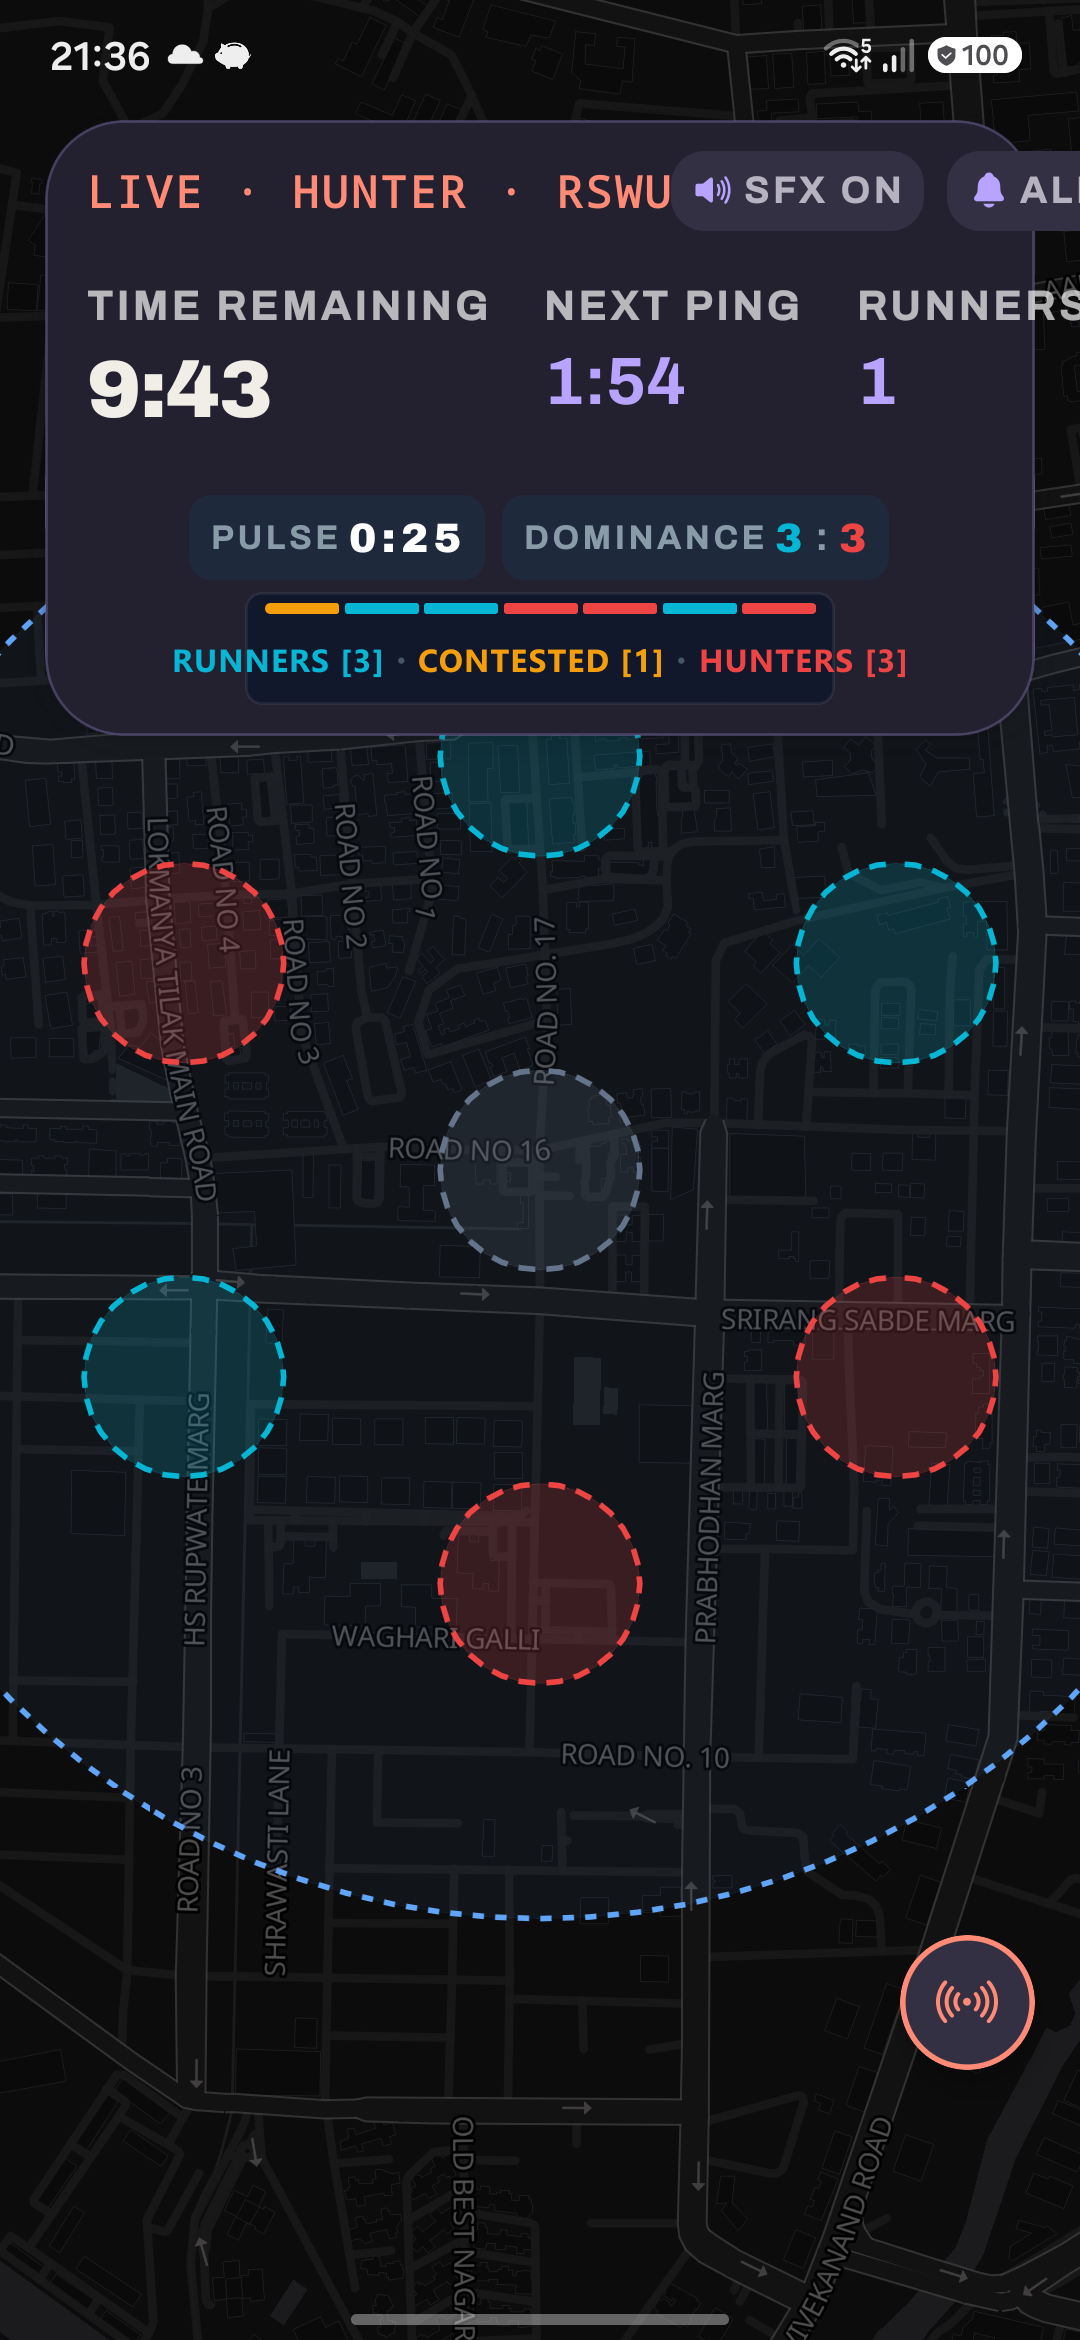
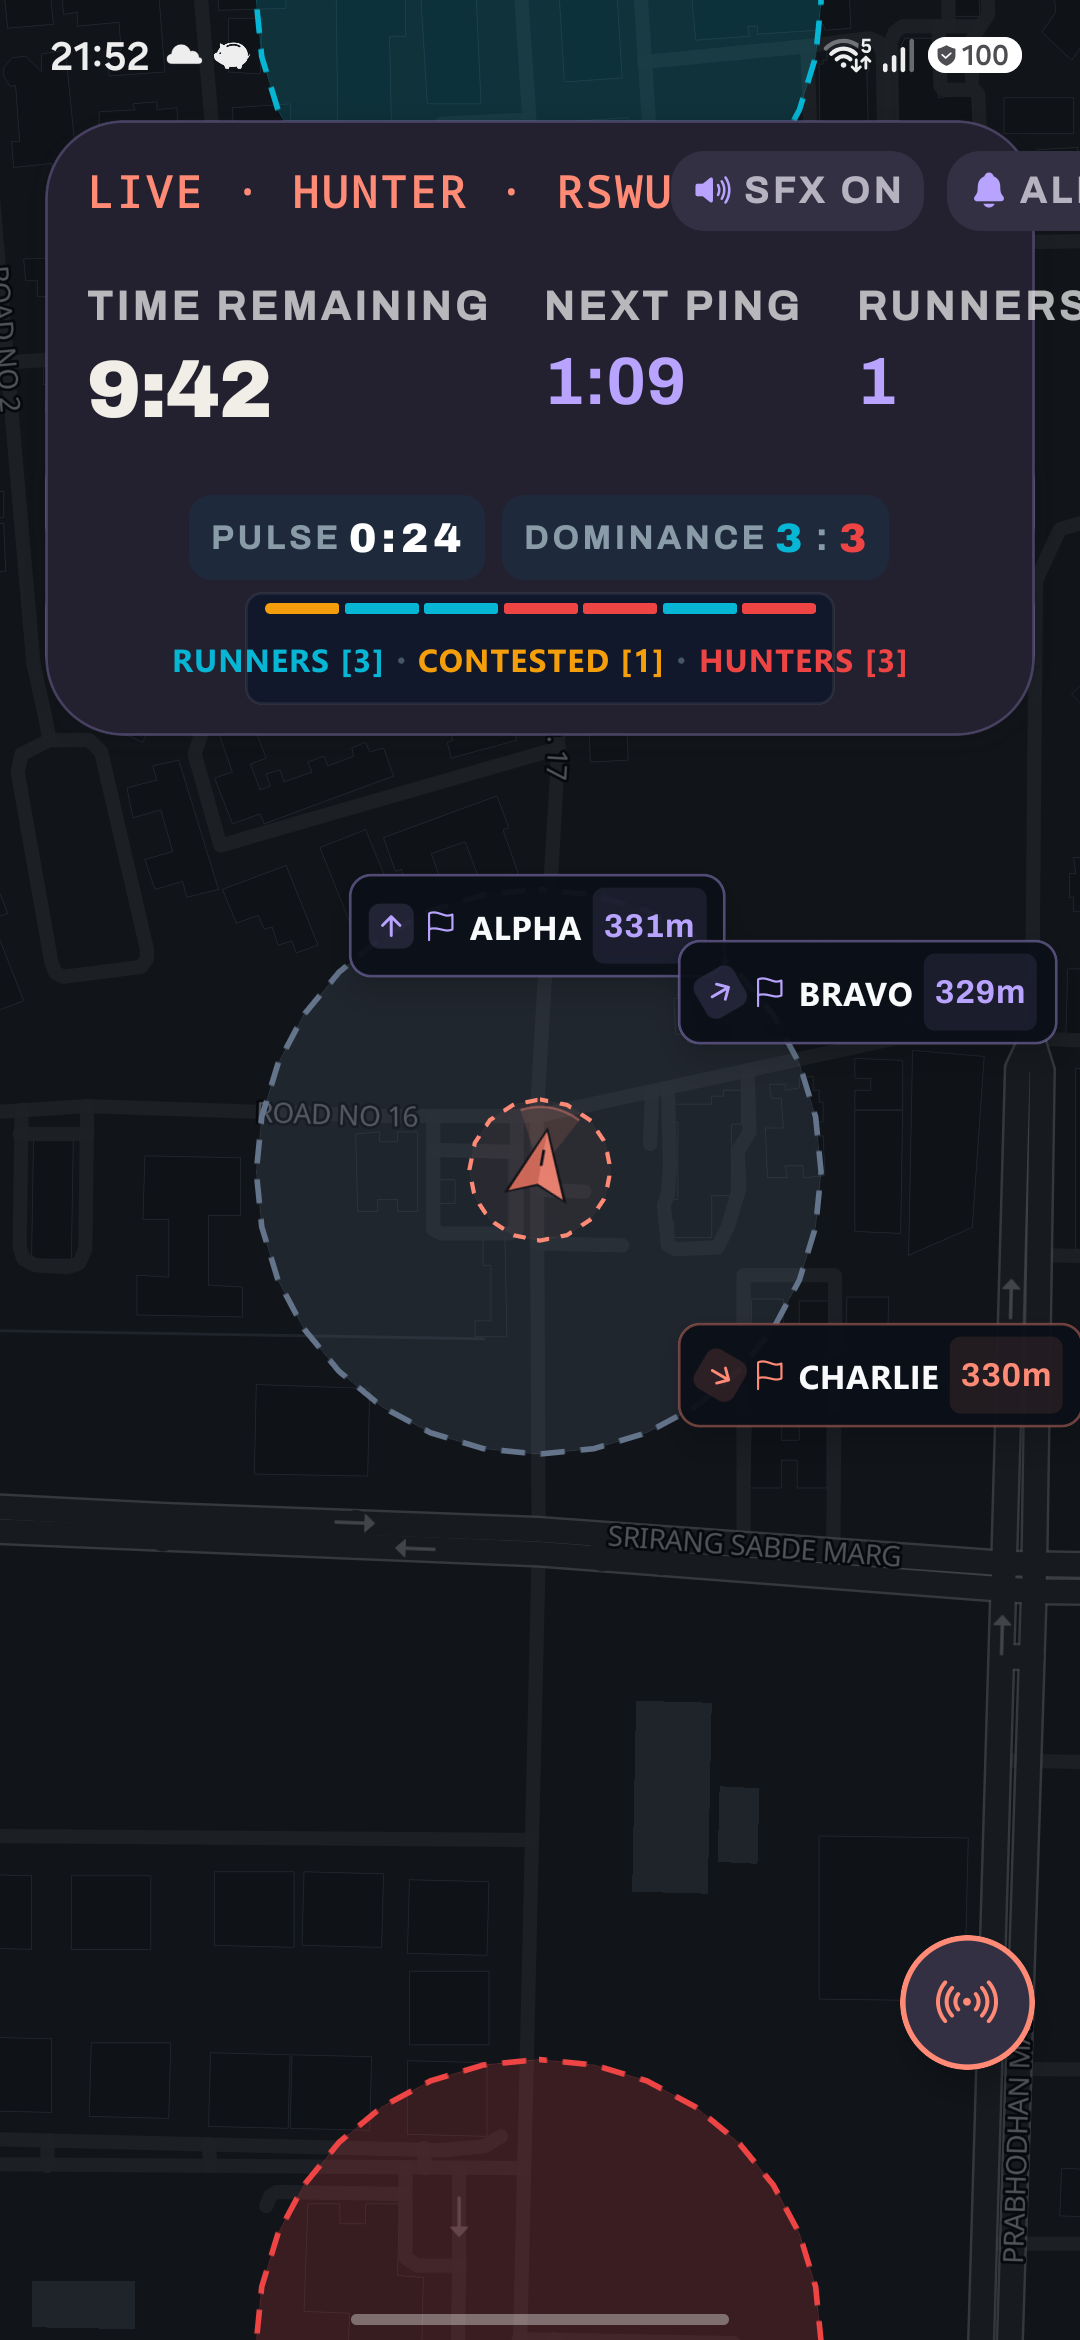
fix(map): stabilize camera with North-Up lock, GPS stationary deadband, and heading rate-limiter

diff --git a/src/game-shell/GameShell.tsx b/src/game-shell/GameShell.tsx
@@ -103,20 +103,35 @@ export function GameShell({ gameId }: GameShellProps) {
   const [now, setNow] = useState(() => Date.now());
   const [serverOffset, setServerOffset] = useState(0);
 
-  // Tactical Compass & Heading Tracking
+  // Tactical Compass & Heading Tracking with Jitter Deadband
   const [userHeading, setUserHeading] = useState<number | null>(null);
 
   useEffect(() => {
     let sub: Location.LocationSubscription | null = null;
     let mounted = true;
+    let lastHeading = 0;
+    let lastUpdateTime = 0;
+
     (async () => {
       try {
         const { status } = await Location.getForegroundPermissionsAsync();
         if (status !== 'granted') return;
         sub = await Location.watchHeadingAsync((headingData) => {
           if (!mounted) return;
-          const heading = headingData.trueHeading >= 0 ? headingData.trueHeading : headingData.magHeading;
-          setUserHeading(heading);
+          const raw = headingData.trueHeading >= 0 ? headingData.trueHeading : headingData.magHeading;
+          if (raw < 0 || isNaN(raw)) return;
+
+          const nowMs = Date.now();
+          // Rate-limit React updates to ~10 updates/sec (100ms) to prevent high-frequency re-render churn
+          if (nowMs - lastUpdateTime < 100) return;
+
+          // Angular deadband: ignore angular shifts < 3.5 degrees to eliminate sensor tremor and desk noise
+          const diff = Math.abs(((raw - lastHeading + 540) % 360) - 180);
+          if (diff < 3.5) return;
+
+          lastHeading = raw;
+          lastUpdateTime = nowMs;
+          setUserHeading(raw);
         });
       } catch {
         // Heading may not be supported on emulators without compass
@@ -349,16 +364,33 @@ export function GameShell({ gameId }: GameShellProps) {
     };
   }, []);
 
-  // Local location watcher: when phone is locked/backgrounded with background sharing enabled,
-  // skip local React state marker updates to conserve CPU & battery.
+  // Local location watcher with stationary GPS drift suppression:
+  // When phone is resting on a desk or operative is standing still, suppress GPS micro-wander (< 3.0m)
+  const lastAcceptedFixRef = useRef<GeoFix | null>(null);
+
   useEffect(() => {
     if (sharing !== 'on') return;
     return watchLocation((nextFix) => {
       if (AppState.currentState !== 'active' && backgroundSharing) return;
+
+      const currentSpeed = nextFix.speed ?? 0;
+
+      // Stationary GPS Wander Deadband:
+      // If speed is very low and displacement is within satellite noise (< 3.0m), keep existing fix
+      if (lastAcceptedFixRef.current) {
+        const d = distanceM(
+          { latitude: lastAcceptedFixRef.current.latitude, longitude: lastAcceptedFixRef.current.longitude },
+          { latitude: nextFix.latitude, longitude: nextFix.longitude }
+        );
+        if (currentSpeed < 0.7 && d < 3.0) {
+          return; // Suppress stationary micro-jitter
+        }
+      }
+
+      lastAcceptedFixRef.current = nextFix;
       setFix(nextFix);
 
       const now = Date.now();
-      const currentSpeed = nextFix.speed ?? 0;
       if (currentSpeed >= 0.5) {
         setLastMovedAt(now);
       }
@@ -756,7 +788,7 @@ export function GameShell({ gameId }: GameShellProps) {
       return Boolean(lockedParam);
     }
     const difficulty = (state.game as any).difficulty || 'standard';
-    return difficulty === 'standard' || difficulty === 'hardcore' || difficulty === 'blackout' || difficulty === 'extreme';
+    return difficulty === 'hardcore' || difficulty === 'blackout' || difficulty === 'extreme';
   }, [state]);
 
   const isBlackoutMode = useMemo(() => {

diff --git a/src/game-shell/MapView.tsx b/src/game-shell/MapView.tsx
@@ -48,17 +48,30 @@ export const MapView = memo(function MapView({
 }: MapViewProps) {
   const { colors, isDark } = useTheme();
   const cameraRef = useRef<CameraRef>(null);
+  const lastCameraCenterRef = useRef<[number, number] | null>(null);
 
-  // When map is locked in Tactical Compass mode, center camera on player and rotate with device heading
+  // Smooth camera following with stationary deadband & rock-solid North-Up orientation.
+  // Suppresses stationary GPS micro-wander (< 4m) and eliminates compass-induced map spinning.
   useEffect(() => {
-    if (!isMapLocked || !ownFix || !cameraRef.current) return;
+    if (!ownFix || !cameraRef.current) return;
+
+    if (lastCameraCenterRef.current) {
+      const prevLngLat = { longitude: lastCameraCenterRef.current[0], latitude: lastCameraCenterRef.current[1] };
+      const dist = distanceM(prevLngLat, ownFix);
+      // Suppress stationary GPS jitter when stationary
+      if (dist < 4.0) {
+        return;
+      }
+    }
+
+    lastCameraCenterRef.current = [ownFix.longitude, ownFix.latitude];
     cameraRef.current.easeTo({
       center: [ownFix.longitude, ownFix.latitude],
-      bearing: userHeading !== null && userHeading !== undefined ? userHeading : 0,
+      bearing: 0, // Always North-Up: map NEVER spins or goes crazy when phone is tilted
       zoom: 16.5,
-      duration: 300,
+      duration: 800, // Smooth glide when actually moving
     });
-  }, [isMapLocked, ownFix, userHeading]);
+  }, [ownFix]);
   // Memoized GeoJSON features
   const areaRing = useMemo(() => {
     return circleRing({ longitude: area.longitude, latitude: area.latitude }, area.radius_m);

diff --git a/src/components/map/OffScreenObjectiveReticles.tsx b/src/components/map/OffScreenObjectiveReticles.tsx
@@ -55,7 +55,7 @@ export const OffScreenObjectiveReticles = memo(function OffScreenObjectiveReticl
   // Inset boundary for clamping reticles to screen edges
   const minX = 75;
   const maxX = width - 75;
-  const minY = Math.max(insets.top, 16) + 215; // Below expanded top HUD, banners & event feeds
+  const minY = Math.max(insets.top, 16) + 290; // Below expanded top HUD, territory dominance bar, banners & event feeds
   const maxY = height - Math.max(insets.bottom, 16) - 150; // Above bottom action bar & buttons
 
   const heading = userHeading !== null && userHeading !== undefined ? userHeading : 0;
@@ -68,10 +68,8 @@ export const OffScreenObjectiveReticles = memo(function OffScreenObjectiveReticl
         if (dist < 40) return null;
 
         const absBearing = bearingDeg(ownFix, obj.location);
-        // If map rotates with heading, relative screen angle changes; otherwise North is up
-        const screenAngleDeg = isMapLocked
-          ? (absBearing - heading + 360) % 360
-          : absBearing;
+        // Map is oriented North-Up for rock-solid stability; screen angle matches absolute bearing
+        const screenAngleDeg = absBearing;
 
         const rad = (screenAngleDeg * Math.PI) / 180;
         const dx = Math.sin(rad);
@@ -155,7 +153,7 @@ const styles = StyleSheet.create({
     shadowRadius: 5,
     elevation: 8,
     zIndex: 40,
-    maxWidth: 180,
+    maxWidth: 200,
   },
   arrowBox: {
     width: 16,
